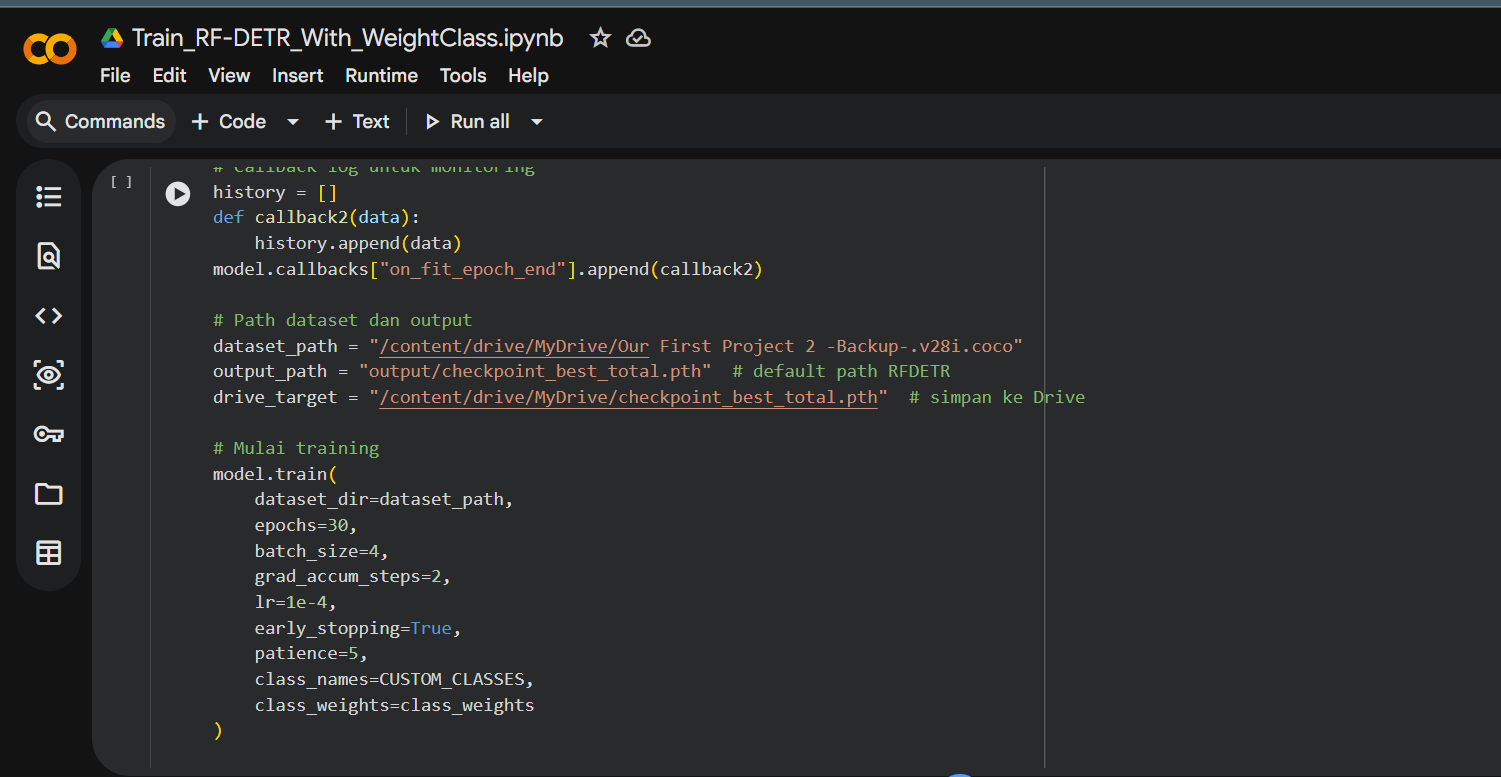
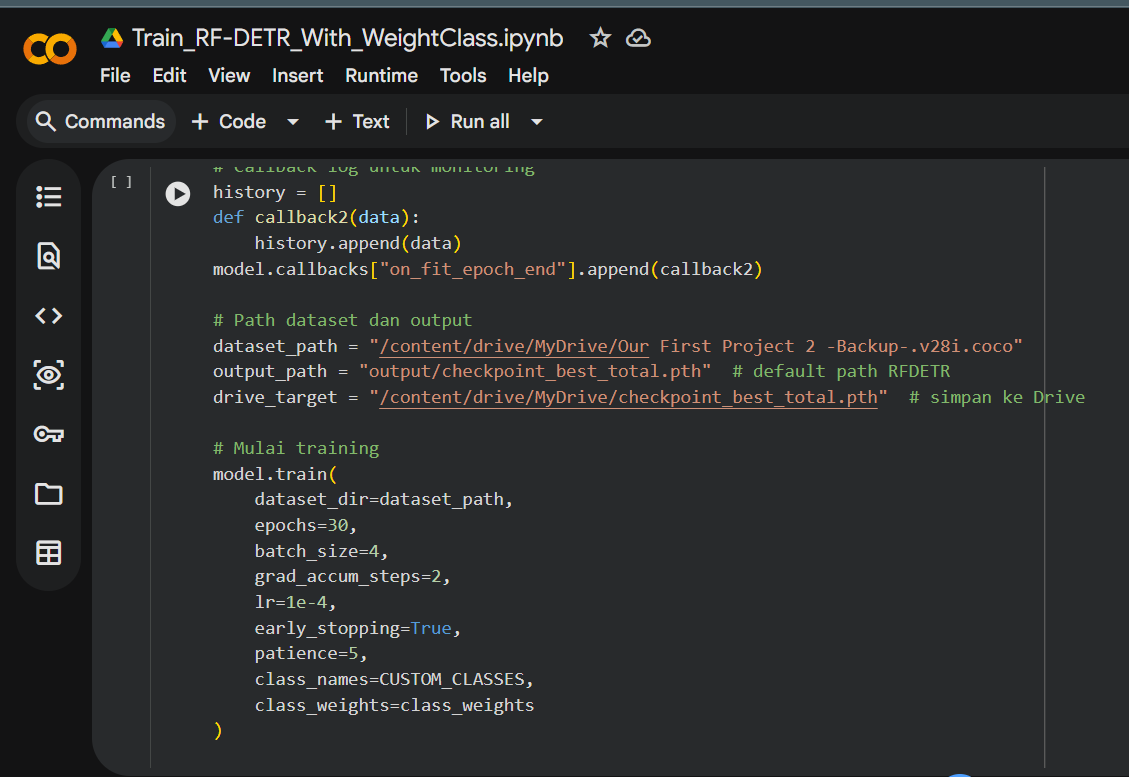
edit

diff --git a/app.js b/app.js
@@ -331,7 +331,7 @@ document.addEventListener('DOMContentLoaded', () => {
       category: 'Computer Vision',
       date: 'June 2026',
       description:
-        'This is my finale project for undergraduate thesis, utilizing computer vision and deep learning to detect defects in green coffee beans and determine their quality. Using YOLOv11 instance segmentation method. Using API for the best model and flutter for mobile application.',
+        'Ini merupakan project skripsi / tugas akhir saya, Project ini menggunakan model YOLOv11 berbasis Instance Segmentation untuk mendeteksi cacat pada Green Bean kopi dalam menentukan nilai mutu nya berdasarkan SNI, disini saya menggunakan backend sebagai tempat code post-processing dan best.pt model nya, serta menggunakan flutter mobile Android sebagai front-end dalam implementasi hasil nya, serta tunneling yang digunakan yaitu Ngrok untuk komunikasi antara mobile dan backend local',
       tags: ['Python', 'Computer Vision', 'Deep Learning', "Roboflow", "YOLOv11", "Instance Segmentation"],
       gradient: 'grad-1',
       media: [

diff --git a/index.html b/index.html
@@ -133,8 +133,8 @@
                     <span>Looking For A Job</span>
                 </div>
                 <div class="header-location">
-                    <span class="loc-city">Medan, Sumatera Utara</span>
                     <span class="loc-country">Indonesia</span>
+                    <span class="loc-city">Medan, Sumatera Utara</span>
                 </div>
             </div>
         </header>
@@ -691,7 +691,7 @@
                             <path
                                 d="M12 2a15.3 15.3 0 0 1 4 10 15.3 15.3 0 0 1-4 10 15.3 15.3 0 0 1-4-10 15.3 15.3 0 0 1 4-10z" />
                         </svg>
-                        <span>Copyright by <strong>Nurul Aini</strong></span>
+                        <span>Made With Love by<strong>Nurul Aini</strong></span>
                     </div>
                 </footer>
             </div>
